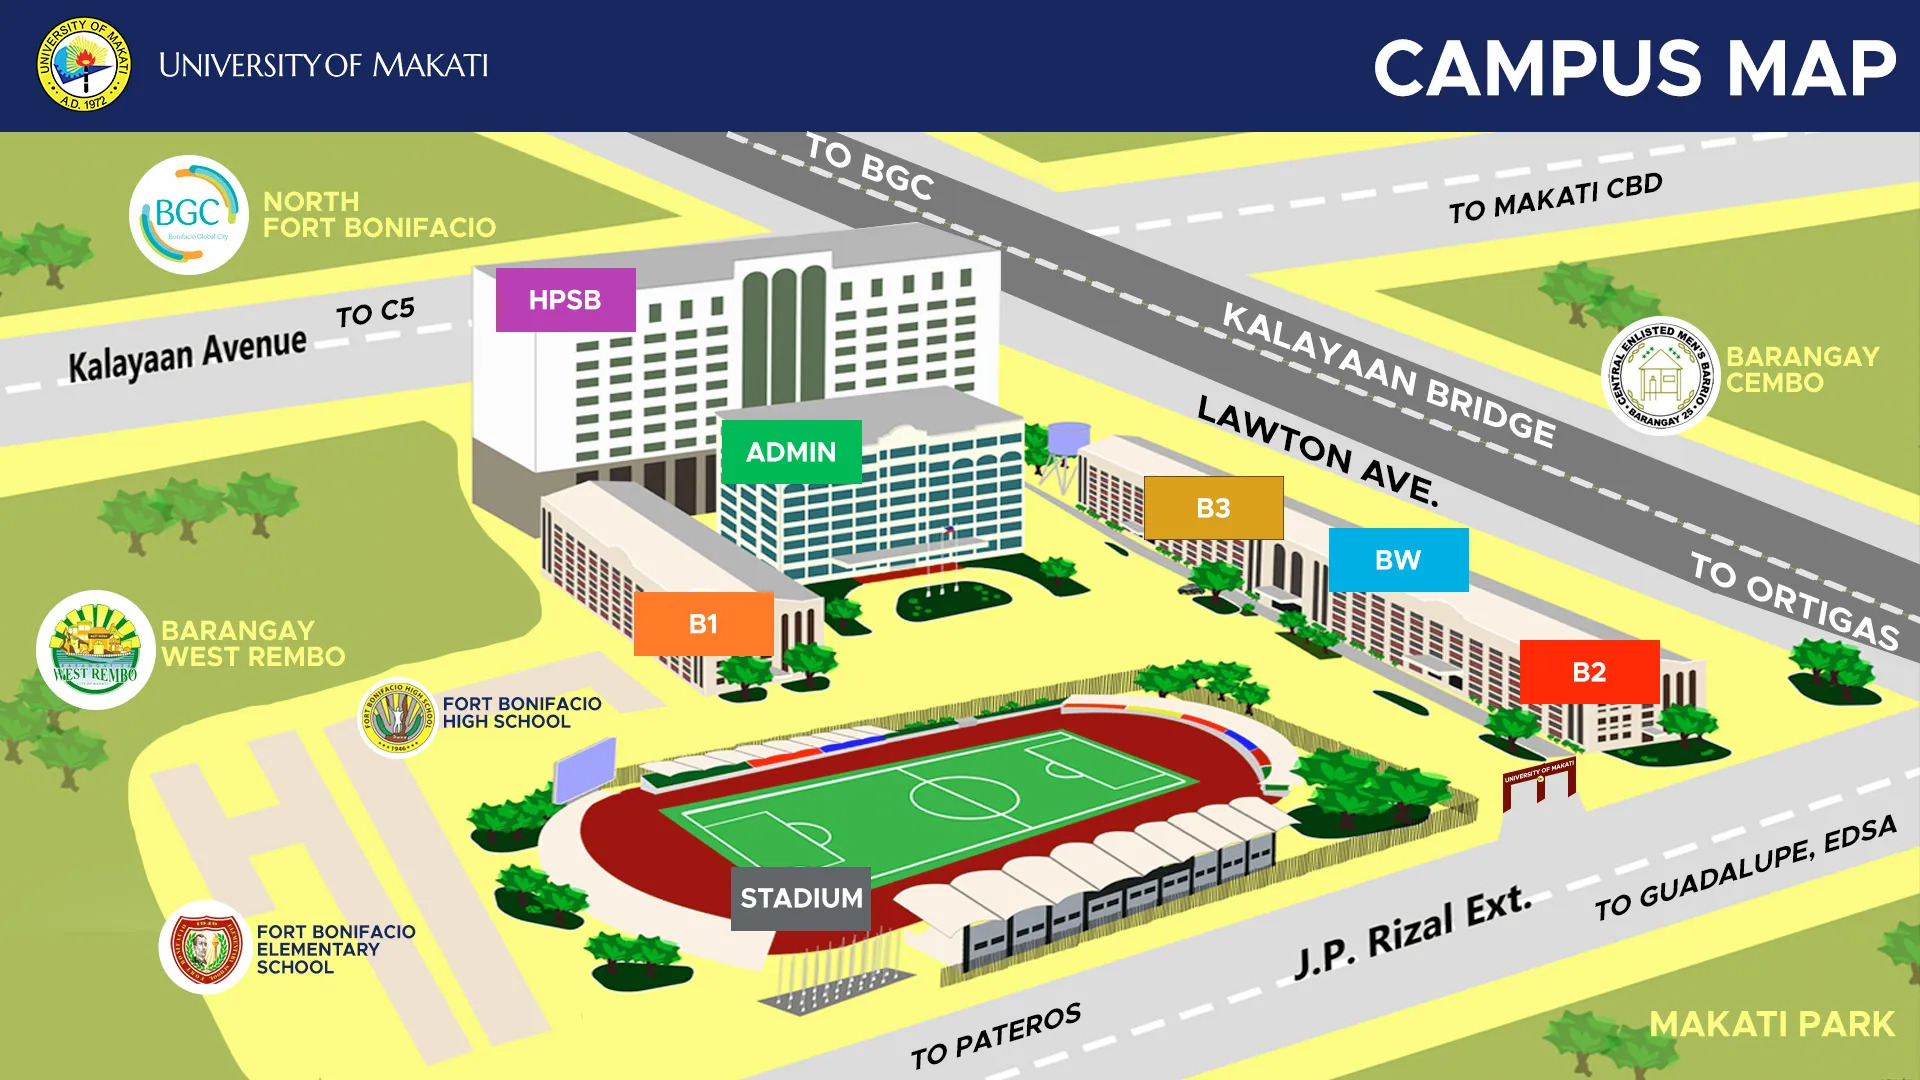
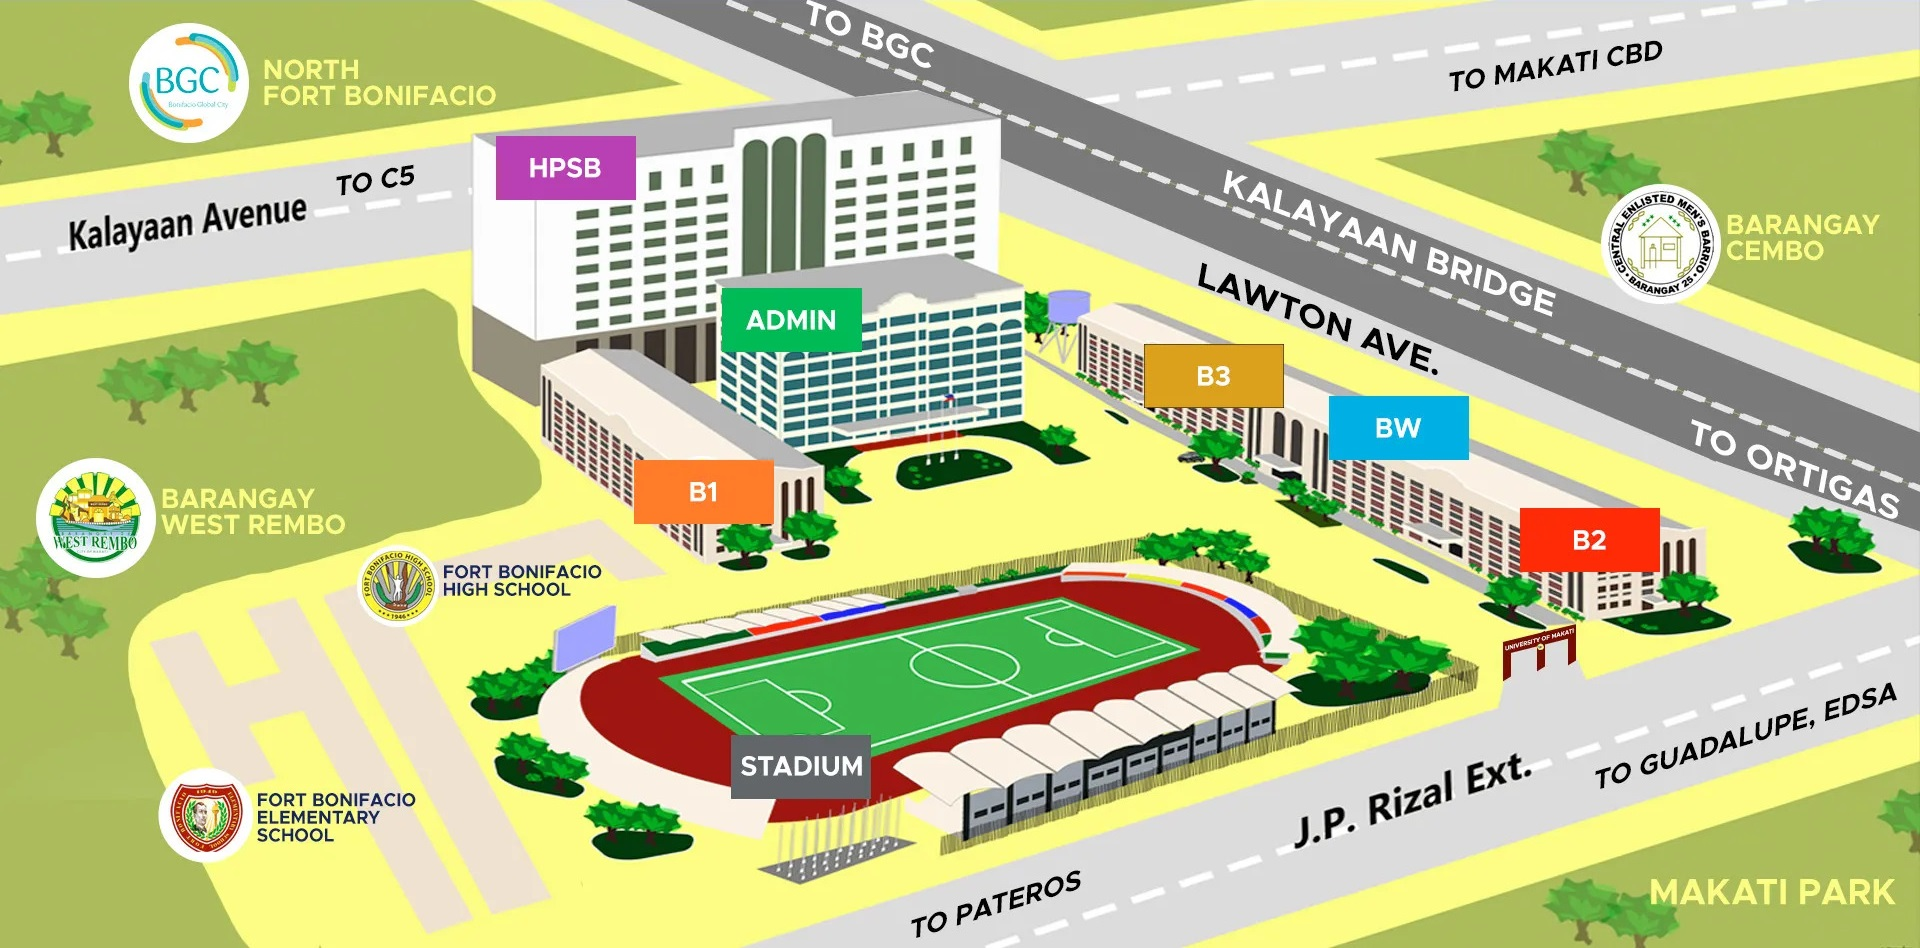
heatmap dots

diff --git a/components/HeatMap.vue b/components/HeatMap.vue
@@ -1,32 +1,76 @@
-<script lang="ts">
+<script setup lang="ts">
+
+const counts = ref([{
+  id: '',
+  name: '',
+  slug: '',
+  count: '',
+  x_pos: '',
+  y_pos: '',
+}])
+
+onMounted(async () => {
+
+  counts.value = // await useGuidanceStore().getLocationPopulations()
+
+  [{
+    id: 'safsafkasfjlksajfsakh',
+    name: 'Admin Building',
+    slug: 'admin',
+    count: 8,
+    x_pos: '41.3',
+    y_pos: '26',
+  }, {
+    id: 'asvbasbsaasn',
+    name: 'Oval Entrance',
+    slug: 'oval',
+    count: 3,
+    x_pos: '41.8',
+    y_pos: '70',
+  }, {
+    id: 'fgdldltryl',
+    name: 'Rear Entrance',
+    slug: 'admin',
+    count: 1,
+    x_pos: '26',
+    y_pos: '42.3',
+  }, {
+    id: 'safsafkasytlydlfjlksajfsakh',
+    name: 'Exit',
+    slug: 'admin',
+    count: 1,
+    x_pos: '83',
+    y_pos: '57.4',
+  }, {
+    id: 'safsafkasfjlksajfsakh',
+    name: 'Admin Building',
+    slug: 'hpsb',
+    count: 69,
+    x_pos: '29.4',
+    y_pos: '11',
+  }]
+
+})
 
 </script>
 
-<template>
-  asd <br>
-  asd <br>
-  asd <br>
-  asd <br>
-  asd <br>
-  asd <br>
-  asd <br>
-  asd <br>
-  <div  class="main relative" >
-      <UPopover :popper="{ placement: 'auto' }" class="HPSB absolute top-[168px] left-[270px]">
-        <UButton color="white" label="" class="p-3 rounded-full"/>
-        <template #panel>
-          <div class="p-4">
-            <Placeholder class="h-20 w-48" />
-            asdadasdsad
-          </div>
-        </template>
-      </UPopover>
+<template><div id="heatmap" class="min-w-[800px] min-h-[0] flex flex-col items-center">
 
+<NuxtImg src="/Campus-map_top.jpg" />
 
-    <img src="/Campus-map.jpg"/>
-    <h3 class="font-light text-xs justify-center m-0 bg-gray-800 rounded-b-md"><a href="https://www.umak.edu.ph/about/campus-map/" target="_blank">Artwork by Prof. Stanley Rovira.</a></h3>
-  </div>
-</template>
+<div id="heat-map-content" class="relative">
 
-<style scoped>
-</style>
+  <template v-if="counts" v-for="i in counts">
+    <MapDot 
+      :location="i.slug"
+      :count="i.count"
+      :xPosition="i.x_pos"
+      :yPosition="i.y_pos"  />
+  </template>
+
+  <NuxtImg class="aspect-video w-[1000px]" src="/Campus-map.jpg" />
+  <h3 class="font-light text-xs justify-center m-0 bg-gray-800 rounded-b-md"><a href="https://www.umak.edu.ph/about/campus-map/" target="_blank">Artwork by Prof. Stanley Rovira.</a></h3>
+
+</div>
+
+</div></template>

diff --git a/components/unit/MapDot.vue b/components/unit/MapDot.vue
@@ -1,0 +1,41 @@
+<script>
+export default {
+  props: {
+    count: String,
+    location: String,
+    xPosition: String|Number,
+    yPosition: String|Number,
+  }
+};
+
+</script>
+
+<template>
+
+<span id="dot" :class="location + 
+  ` absolute -translate-x-1/2 -translate-y-1/2`"
+  :style="{ top: yPosition+'%', left: xPosition+'%' }"
+  >
+
+  <UPopover mode="hover" :popper="{ placement: 'top' }">
+    <UButton color="white" label="" class="p-3 rounded-full"/>
+
+    <template #panel>
+      <div class="p-2 whitespace-nowrap">
+        {{ count }} <span class="text-gray-500">people</span>
+      </div>
+    </template>
+
+  </UPopover>
+
+</span>
+
+</template>
+
+<style scoped>
+
+#dot:hover {
+  z-index: 6;
+}
+
+</style>

diff --git a/stores/useGuidanceStore.ts b/stores/useGuidanceStore.ts
@@ -1,0 +1,23 @@
+import { defineStore } from "pinia"
+
+export const useGuidanceStore = defineStore('guidance-staff', () => {
+
+
+  const locationPopulations = ref(null)
+
+  const getLocationPopulations = async () => {
+    if (!locationPopulations.value) locationPopulations.value = await fetchLocationPopulations()
+    return locationPopulations.value
+  }
+
+  async function fetchLocationPopulations() {
+    await useFetch('http://0.0.0.0') // shit workaround for first fetch err
+    const { res } = await doRequest('api/guidance/data/location')
+    return res
+  }
+
+  return { 
+    getLocationPopulations,
+  }
+
+})

diff --git a/pages/map.vue b/pages/map.vue
@@ -1,28 +1,10 @@
-<template>
-  <HeatMap class="w-screen"/>
-</template>
+<template><div id="map">
+  
+<HeatMap/>
+
+</div></template>
 
 
 <style scoped>
-
-#double {
-
-  @apply flex justify-center h-full;
-
-  flex-direction: var(--article-split-dir);
-
-  > aside {
-    @apply flex flex-col h-full px-[var(--article-aside-p)];
-  }
-}
-
-aside > div {
-  @apply bg-[var(--l30)] rounded-xl p-4 min-w-[340px];
-
-  ::before {
-    @apply m-0
-  }
-}
-
 
 </style>
